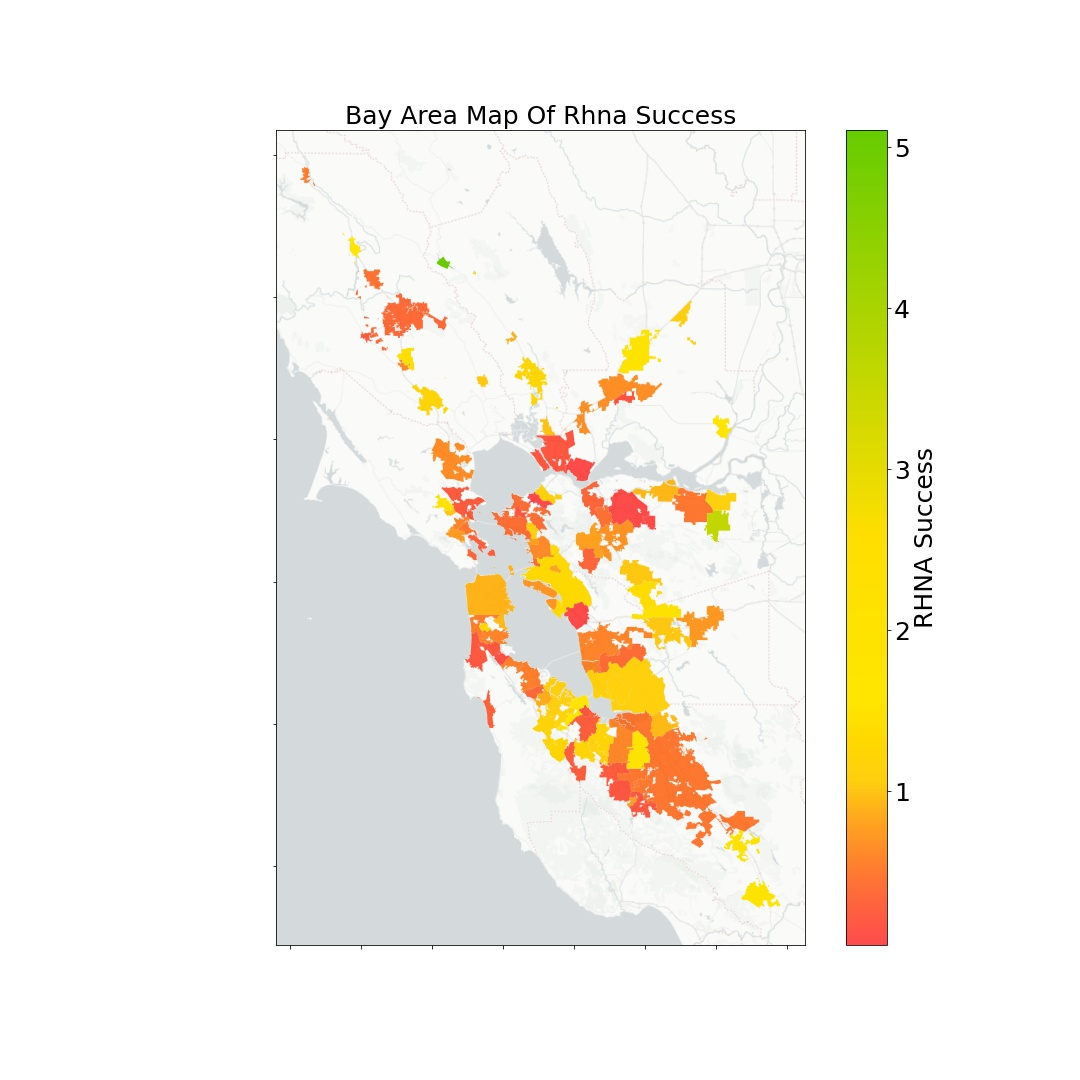
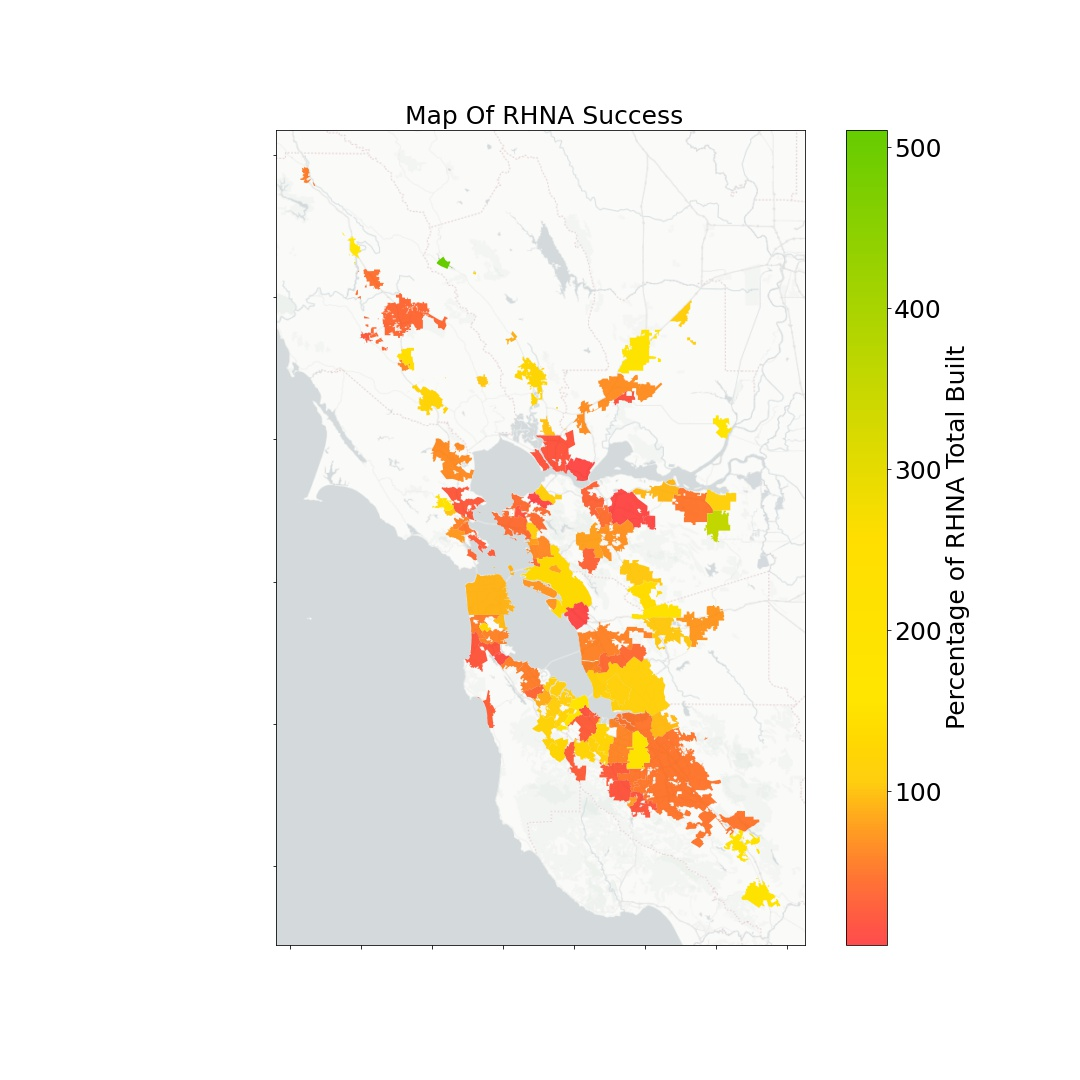
improve axes labelling for rhna success bay map

diff --git a/housing_elements/utils.py b/housing_elements/utils.py
@@ -589,24 +589,42 @@ def map_qoi(qoi, results_df):
     """
     results_copy = results_df.copy()
     results_copy['city'] = results_copy['City']
+    results_copy['RHNA Success'] = results_copy['RHNA Success'] * 100
     bay = gpd.read_file('data/raw_data/bay_area_map/bay.shp')
     bay['city'] = bay['city'].str.title()
     bay['county'] = bay['county'].str.title()
     result = bay.merge(results_copy, how='inner', on='city')
     to_plot = result.to_crs(epsg=3857)
+    qoi_in_title = qoi.title()
+    legend_label = qoi
+    file_name_prefix = qoi.lower()
+    if qoi == 'RHNA Success':
+        qoi_in_title = qoi
+    if qoi == 'RHNA Success':
+        legend_label = 'Percentage of RHNA Total Built'
+    title = f'Map Of {qoi_in_title}'
+    map_qoi_inner(qoi=qoi,
+                  title=title, 
+                  legend_label=legend_label, 
+                  to_plot=to_plot,
+                  file_name_prefix=file_name_prefix)
+
+
+def map_qoi_inner(qoi, title, legend_label, to_plot, file_name_prefix):
     fig, ax = plt.subplots(figsize=(15, 15))
     register_cmap()
     plt.rcParams.update({'font.size': 25})
     to_plot.plot(ax=ax, column=qoi, legend=True, 
-                 legend_kwds={'label': qoi, 'ax': ax}, cmap='RedGreen')
+                 legend_kwds={'label': legend_label, 'ax': ax}, cmap='RedGreen')
     plt.rcParams.update({'font.size': 10})
     ax.set_yticklabels([])
     ax.set_xticklabels([])
-    ax.set_title(f'Bay Area Map Of {qoi.title()}', fontdict={'fontsize': 25})
-    qoi = qoi.replace('/', '')
-    qoi = qoi.replace(' ', '_')
+    ax.set_title(f' {title}', fontdict={'fontsize': 25})
+    file_name_prefix = file_name_prefix.replace('/', '')
+    file_name_prefix = file_name_prefix.replace(' ', '_')
     ctx.add_basemap(ax, source=ctx.providers.CartoDB.PositronNoLabels, attribution=False)
-    plt.savefig(f'figures/{qoi}_bay_map.jpg')
+    plt.savefig(f'figures/{file_name_prefix.lower()}_bay_map.jpg')
+    
 
 def catplot_qoi(result_df, qoi_col_prefix, order=None):
     assert 'City' in result_df.columns
@@ -620,4 +638,4 @@ def catplot_qoi(result_df, qoi_col_prefix, order=None):
     ax = sea.barplot(x="City", y=qoi_col_prefix, hue="Method",
                 data=long_df, saturation=.5, ci=None, order=order[:len(order)//3])
     ax.tick_params(axis='x', labelrotation=90)
-    plt.savefig(f'figures/{qoi_col_prefix}_by_city_barplot.jpg')
+    plt.savefig(f'figures/{qoi_col_prefix.lower()}_by_city_barplot.jpg')
